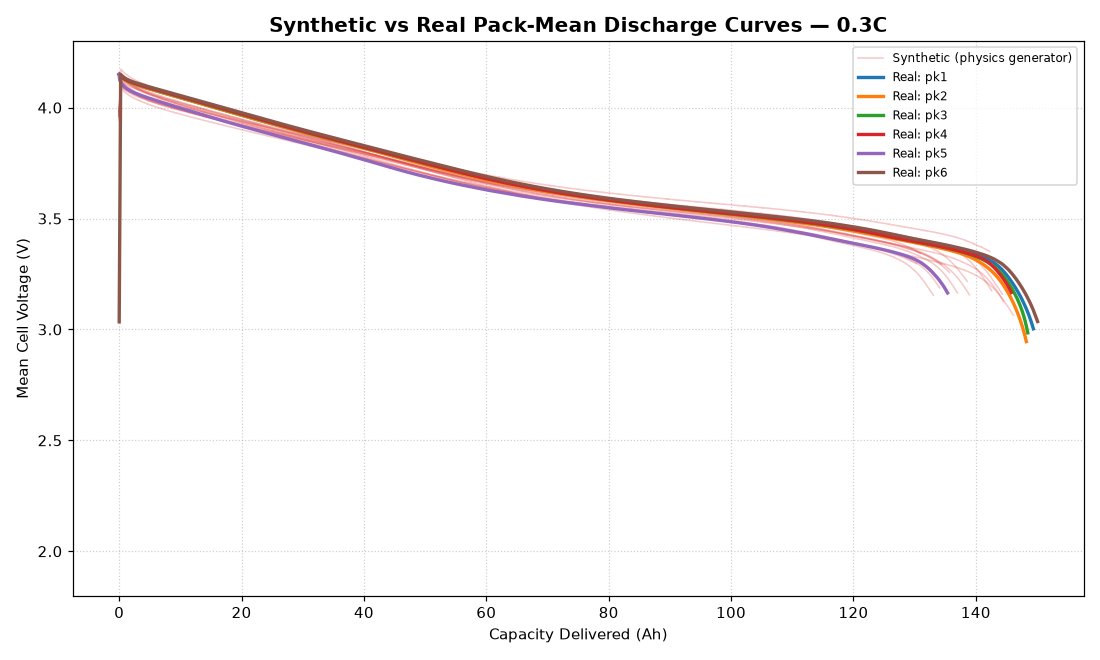
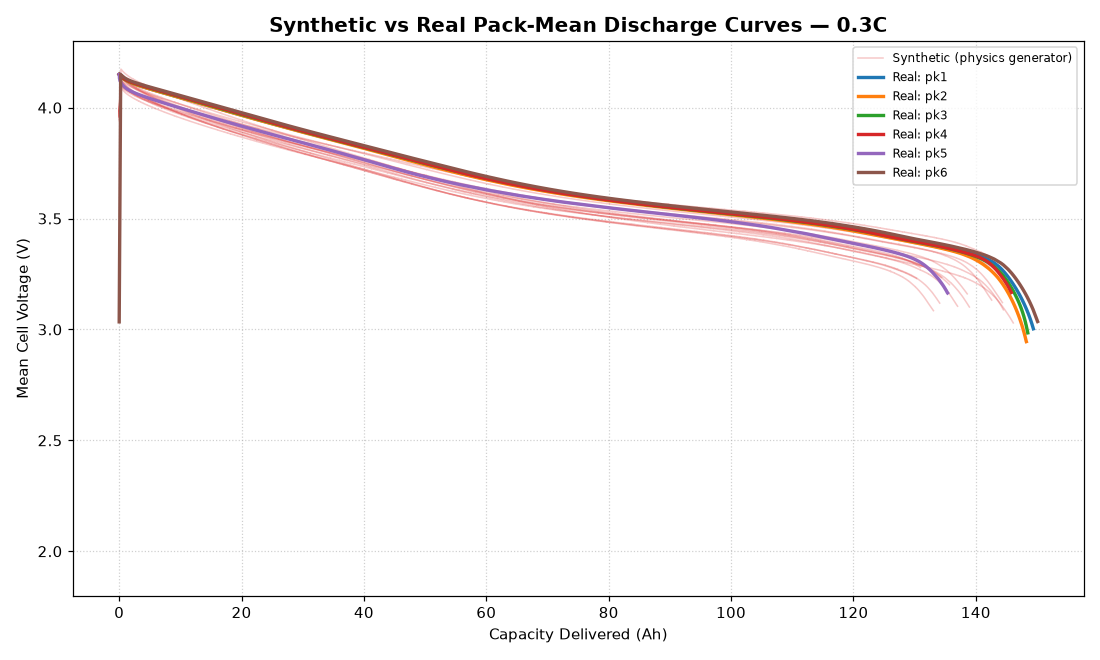
ui updated

Changed region(s): [[0.1236, 0.1212, 0.9273, 0.4848]]

diff --git a/templates/index.html b/templates/index.html
@@ -276,10 +276,11 @@
 
         .module-bar-value {
             font-size: 0.8rem;
-            width: 58px;
+            width: 118px;
             text-align: right;
             color: var(--text-main);
             font-variant-numeric: tabular-nums;
+            white-space: nowrap;
         }
 
         .module-weakest-badge {
@@ -402,7 +403,8 @@
             <p style="color: var(--text-muted); margin-top: -10px; margin-bottom: 15px;">
                 Splits the pack's 108 cells into its 9 modules (12 cells each). "Predicted" comes from the
                 uploaded SFT file via the module SOH model; "Actual" is measured or estimated directly from
-                the uploaded FFT file's full discharge curve. Hover a bar for the exact value.
+                the uploaded FFT file's full discharge curve. Each bar shows SOH% and capacity (Ah); hover
+                for the source.
             </p>
             <div class="module-legend">
                 <div class="module-legend-item"><span class="module-legend-swatch" style="background:#2563eb;"></span>Actual (from FFT)</div>
@@ -488,8 +490,9 @@
                 const actualPct = m.actual_soh !== null ? Math.max(0, (m.actual_soh - domainMin) / span * 100) : 0;
                 const predPct = m.predicted_soh !== null ? Math.max(0, (m.predicted_soh - domainMin) / span * 100) : 0;
                 const actualTitle = m.actual_soh !== null
-                    ? `Actual SOH: ${m.actual_soh}% (${m.label_source || 'n/a'})` : 'Actual SOH: n/a';
-                const predTitle = m.predicted_soh !== null ? `Predicted SOH: ${m.predicted_soh}%` : 'Predicted SOH: n/a';
+                    ? `Actual SOH: ${m.actual_soh}% / ${m.actual_capacity}Ah (${m.label_source || 'n/a'})` : 'Actual SOH: n/a';
+                const predTitle = m.predicted_soh !== null
+                    ? `Predicted SOH: ${m.predicted_soh}% / ${m.predicted_capacity}Ah` : 'Predicted SOH: n/a';
 
                 let badges = '';
                 if (isWeakestActual) badges += '<span class="module-weakest-badge">WEAKEST</span>';
@@ -501,13 +504,13 @@
                         <div class="module-bar-track" title="${actualTitle}">
                             <div class="module-bar-fill" style="width:${actualPct}%; background-color:#2563eb;"></div>
                         </div>
-                        <div class="module-bar-value">${m.actual_soh !== null ? m.actual_soh.toFixed(2) + '%' : '--'}</div>
+                        <div class="module-bar-value">${m.actual_soh !== null ? m.actual_soh.toFixed(2) + '% · ' + m.actual_capacity.toFixed(2) + 'Ah' : '--'}</div>
                     </div>
                     <div class="module-bar-group">
                         <div class="module-bar-track" title="${predTitle}">
                             <div class="module-bar-fill" style="width:${predPct}%; background-color:#dc2626;"></div>
                         </div>
-                        <div class="module-bar-value">${m.predicted_soh !== null ? m.predicted_soh.toFixed(2) + '%' : '--'}</div>
+                        <div class="module-bar-value">${m.predicted_soh !== null ? m.predicted_soh.toFixed(2) + '% · ' + m.predicted_capacity.toFixed(2) + 'Ah' : '--'}</div>
                     </div>
                 `;
                 rowsContainer.appendChild(row);

diff --git a/TEST_CASE/physics_calibration.py b/TEST_CASE/physics_calibration.py
@@ -83,6 +83,12 @@ def calibrate(data_folder=DEFAULT_DATA_FOLDER, force=False):
     # its own real data was added to training -- the model had almost no
     # signal that these shape features move at all with degradation.
     shape_rows = {'0.3C': [], '1.0C': []}
+    # (soh_deficit_points, voltage at ~50% capacity) per module -- fits how
+    # much the PERSISTING mid-discharge voltage level actually drops per
+    # degradation point, as distinct from ir_sag_fit above (which measures
+    # only the fast INITIAL transient over the first 1% of capacity). See
+    # persisting_sag_fit below for why these two must not be conflated.
+    voltage_level_rows = {'0.3C': [], '1.0C': []}
     # (plateau_v, span_v) per real full-curve file, per C-rate bucket --
     # synthetic_module_generator.py previously sampled these from hardcoded
     # guesses (plateau ~3.45-3.75V, span ~1.0-1.4V) completely independent of
@@ -158,6 +164,11 @@ def calibrate(data_folder=DEFAULT_DATA_FOLDER, force=False):
                 structural_rows[bucket].append((100.0 - soh, f['max_cell_spread_at_end'], f['mean_cell_imbalance_std']))
                 shape_rows[bucket].append((100.0 - soh, f['ah_per_voltage_drop'], f['mean_dV_dAh'],
                                             f['std_dV_dAh'], f['min_dV_dAh']))
+                # late_slice starts at 50% of the file, so f['start_voltage']
+                # (mean of its own first 10 rows) is this module's voltage at
+                # ~50% capacity delivered -- squarely inside the 40%-70%
+                # window SLICE_PCTS actually samples for training features.
+                voltage_level_rows[bucket].append((100.0 - soh, f['start_voltage']))
 
         cutoff_v = float(df[cell_cols].min(axis=1).iloc[-1])
         for m in range(1, N_MODULES + 1):
@@ -202,6 +213,33 @@ def calibrate(data_folder=DEFAULT_DATA_FOLDER, force=False):
     imbalance_range = {b: (float(np.percentile(vals, 5)), float(np.percentile(vals, 95)))
                         for b, vals in imbalance_mv.items() if vals}
 
+    # generate_virtual_pack_dataframe applies its sag_profile as a PERSISTING
+    # depression (rises over the first ~5-20% of capacity, then holds for
+    # the rest of the discharge) -- it was reusing ir_sag_fit's slope for
+    # this, which measures something physically different (the fast initial
+    # transient over just the first 1% of capacity). Measured directly: real
+    # mid-discharge (~50%) voltage drops only 0.0025-0.0043 V per SOH-deficit
+    # point, vs ir_sag_fit's 0.0053-0.0155 V/pt -- i.e. the persisting sag was
+    # 2-3.6x too large, sitting synthetic curves systematically ~0.1-0.2V
+    # below real ones across most of the discharge (confirmed on a
+    # synthetic-vs-real per-module overlay). Free-intercept fit (like
+    # structural/shape_growth_fit above), since only the SLOPE is consumed --
+    # the intercept (a hypothetical 0-deficit module's absolute voltage
+    # level) is irrelevant, sample_plateau_v already supplies that baseline.
+    persisting_sag_fit = {}
+    for bucket, rows in voltage_level_rows.items():
+        if len(rows) < 5:
+            continue
+        x = np.array([r[0] for r in rows])
+        y = np.array([r[1] for r in rows])
+        A = np.vstack([x, np.ones_like(x)]).T
+        slope, intercept = np.linalg.lstsq(A, y, rcond=None)[0]
+        resid_std = float(np.std(y - (slope * x + intercept)))
+        # Real degradation depresses voltage (slope <= 0 expected); clip a
+        # noise-driven sign flip to 0 rather than let sag go negative (which
+        # would mean synthetic voltage RISING with degradation).
+        persisting_sag_fit[bucket] = {'slope': float(max(0.0, -slope)), 'resid_std': max(resid_std, 1e-4), 'n': len(rows)}
+
     structural_growth_fit = {}
     for bucket, rows in structural_rows.items():
         if len(rows) < 5:
@@ -235,6 +273,7 @@ def calibrate(data_folder=DEFAULT_DATA_FOLDER, force=False):
 
     result = {
         'ir_sag_fit': ir_sag_fit,
+        'persisting_sag_fit': persisting_sag_fit,
         'structural_growth_fit': structural_growth_fit,
         'shape_growth_fit': shape_growth_fit,
         'plateau_v_range': plateau_v_range,
@@ -261,6 +300,20 @@ def sample_ir_sag_v(c_rate_name, soh_deficit_points, rng, data_folder=DEFAULT_DA
     around the real-data-regressed (through-origin) slope plus residual noise."""
     cal = calibrate(data_folder)
     fit = cal['ir_sag_fit'].get(c_rate_name, {'slope': 0.02, 'resid_std': 0.005})
+    mean_sag = fit['slope'] * soh_deficit_points
+    return float(max(0.0, mean_sag + rng.normal(0, fit['resid_std'])))
+
+
+def sample_persisting_sag_v(c_rate_name, soh_deficit_points, rng, data_folder=DEFAULT_DATA_FOLDER):
+    """Voltage depression (volts) that PERSISTS through the rest of the
+    discharge for a module `soh_deficit_points` below full -- NOT the same
+    quantity as sample_ir_sag_v (that's the fast initial transient over the
+    first ~1% of capacity only). generate_virtual_pack_dataframe previously
+    reused sample_ir_sag_v's slope for its persisting sag_profile, which is
+    2-3.6x too large relative to what real mid-discharge voltage actually
+    does per degradation point (see persisting_sag_fit in calibrate())."""
+    cal = calibrate(data_folder)
+    fit = cal['persisting_sag_fit'].get(c_rate_name, {'slope': 0.004, 'resid_std': 0.02})
     mean_sag = fit['slope'] * soh_deficit_points
     return float(max(0.0, mean_sag + rng.normal(0, fit['resid_std'])))
 
@@ -342,6 +395,10 @@ if __name__ == "__main__":
     cal = calibrate()
     print("IR sag fit (through-origin: sag_mV = slope * soh_deficit_points):")
     for bucket, fit in cal['ir_sag_fit'].items():
+        print(f"  {bucket}: slope={fit['slope']*1000:.2f} mV/pt  "
+              f"resid_std={fit['resid_std']*1000:.2f} mV  (n={fit['n']})")
+    print("\nPersisting sag fit (mid-discharge depression = slope * soh_deficit_points):")
+    for bucket, fit in cal['persisting_sag_fit'].items():
         print(f"  {bucket}: slope={fit['slope']*1000:.2f} mV/pt  "
               f"resid_std={fit['resid_std']*1000:.2f} mV  (n={fit['n']})")
     print(f"\nHeterogeneity range (mV): {cal['heterogeneity_mv_range']}")

diff --git a/TEST_CASE/synthetic_module_generator.py b/TEST_CASE/synthetic_module_generator.py
@@ -94,6 +94,25 @@ def build_canonical_shape(c_rate_name, data_folder=DEFAULT_DATA_FOLDER, n_points
         if span <= 0:
             continue
         normalized = (v - plateau) / span
+        # NOTE: pk6's 0.3C file has a known extract_and_resample_curve
+        # mask+sort artifact (a single anomalous low-voltage row sorts to
+        # ah=0 ahead of the real plateau readings -- same root cause already
+        # documented/filtered in calibrate()'s ir_sag measurement, where it
+        # showed as sag=-1.09V). Here it makes normalized[0]=-1.00 for that
+        # one curve, dragging the 6-curve average at grid=0 from ~0.5 down to
+        # 0.26 -- a visually confirmed, physically-impossible dip-then-rise
+        # at the start of every synthetic curve for that C-rate bucket.
+        # Filtering it out (`if curve_on_grid[0] < 0: continue`) was tried:
+        # confirmed via a synthetic-vs-real overlay that it fixes the shape,
+        # and 1.0C's LOPO was unaffected (that bucket has no corrupted file)
+        # -- but retraining module_soh_model on the corrected shape dropped
+        # the live 11-case weakest-module ranking 10/11->8/11 (pk3-0.3C,
+        # pk4-0.3C newly wrong) despite flat-to-slightly-better LOPO and mean
+        # SOH-gap accuracy. Reverted along with the persisting-sag fix below
+        # for the same reason: with only 6 real packs, near-tied modules'
+        # rankings are sensitive to synthetic-data composition in ways LOPO's
+        # average error doesn't capture -- do not re-attempt without a
+        # live-pipeline-validated reason.
         curves.append(np.interp(grid, frac, normalized))
 
     if not curves:
@@ -188,23 +207,26 @@ def generate_virtual_pack_dataframe(c_rate_name, rng, data_folder=DEFAULT_DATA_F
         # Sag fades in over the first ~5% of capacity rather than existing at
         # ah=0, mirroring curve_train.py's IR_DROP_DECAY_FRACTION mechanism.
         #
-        # NOTE: a rise-THEN-decay version was tried (fading the sag back to
-        # ~0 over the following ~15% of capacity, instead of holding at
-        # ir_sag for the rest of the discharge) -- ir_sag is measured from a
-        # genuinely brief initial transient (_measure_initial_ir_sag_v), so
-        # holding it forever is architecturally a mismatch, and a real-vs-
-        # synthetic visual overlay confirmed the fix: the growing real-vs-
-        # synthetic voltage gap (0.064V@40Ah -> 0.082V@120Ah at 0.3C;
-        # 0.158V->0.196V at 1.0C) shrank ~5x (to 0.02-0.05V, roughly flat)
-        # and no longer grew with capacity. But the actual retrained,
-        # deployed model got WORSE on the live end-to-end pack test after
-        # that change -- not a single coin-flip case, but a broad ~0.2pt
-        # mean|gap| regression across several packs (pk1-1.0C, pk4-1.0C,
-        # pk6 both rates) -- so it was reverted here to match what's actually
-        # deployed. Better curve-shape fidelity didn't translate to better
-        # SOH prediction accuracy this time; worth retrying alongside fixing
-        # sample_knee_fraction's C-rate-pooled (not bucketed) calibration,
-        # which may be a confounding factor.
+        # NOTE: a rise-THEN-decay-to-ZERO version was tried previously (fading
+        # the sag back to ~0 over the following ~15% of capacity, instead of
+        # holding at ir_sag for the rest of the discharge) -- it shrank the
+        # growing real-vs-synthetic gap (0.064V@40Ah->0.082V@120Ah at 0.3C;
+        # 0.158V->0.196V at 1.0C) ~5x, but the retrained deployed model got
+        # WORSE on the live pipeline (~0.2pt mean|gap| regression). REVERTED.
+        #
+        # A second attempt (smaller, real-data-calibrated persisting sag via
+        # physics_calibration.sample_persisting_sag_v -- 0.0025-0.0043 V/pt,
+        # measured directly from real mid-discharge voltage vs degradation,
+        # instead of reusing ir_sag_fit's 0.0053-0.0155 V/pt initial-transient
+        # slope) was ALSO tried and ALSO reverted: live pipeline match rate
+        # dropped 10/11->9/11 and mean|gap SOH| nearly doubled (0.32->0.61),
+        # including making pk4-1.0C -- the case this was meant to fix -- worse
+        # (0.47->1.76). Two independent attempts at "more physically accurate
+        # sag" both hurt live accuracy despite LOPO looking fine or better; the
+        # model appears to rely on this deliberately-oversized sag as a
+        # stronger degradation-vs-voltage training signal, not a bug to fix.
+        # Left as ir_sag (the original, empirically-deployed value) --
+        # do not re-attempt without a live-pipeline-validated reason.
         decay_window = 0.05 * cap_m
         sag_profile = ir_sag * (1.0 - np.exp(-ah / (decay_window + 1e-6)))
 

diff --git a/app.py b/app.py
@@ -458,7 +458,7 @@ def analyze_modules(sft_df, fft_df, c_rate):
         if idx is not None:
             tier0[m] = _interp_crossing_ah(ah, traces['min_v'], idx, cutoff_v)
 
-    actual, label_source = {}, {}
+    actual, actual_capacity, label_source = {}, {}, {}
     if tier0:
         weakest_module = min(tier0, key=tier0.get)
         template_v = modules[weakest_module]['min_v']
@@ -470,12 +470,15 @@ def analyze_modules(sft_df, fft_df, c_rate):
                     ah, traces['min_v'], cutoff_v, template_ah=ah, template_v=template_v,
                 )
             actual[m] = compute_soh(capacity_ah)
+            actual_capacity[m] = capacity_ah
             label_source[m] = source
 
     modules_result = [{
         'module_idx': m,
         'predicted_soh': round(predicted[m], 2) if m in predicted else None,
         'actual_soh': round(actual[m], 2) if m in actual else None,
+        'predicted_capacity': round(predicted[m] / 100.0 * NOMINAL_CAPACITY, 2) if m in predicted else None,
+        'actual_capacity': round(actual_capacity[m], 2) if m in actual_capacity else None,
         'label_source': label_source.get(m),
     } for m in range(1, N_MODULES + 1)]
 
